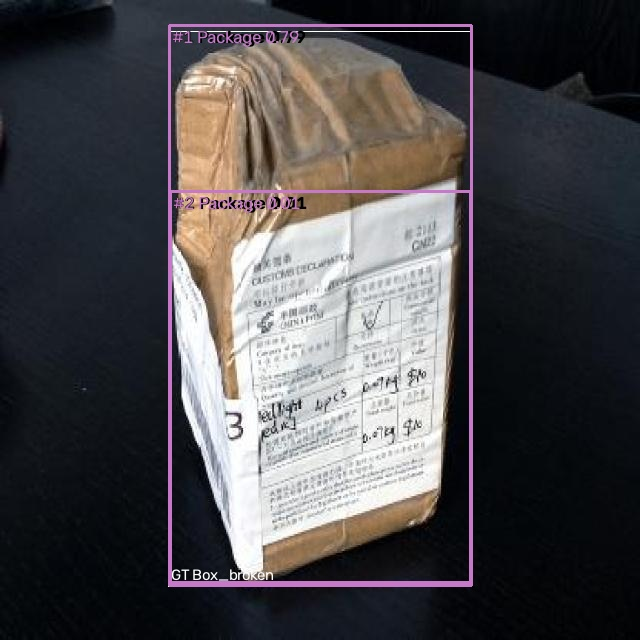
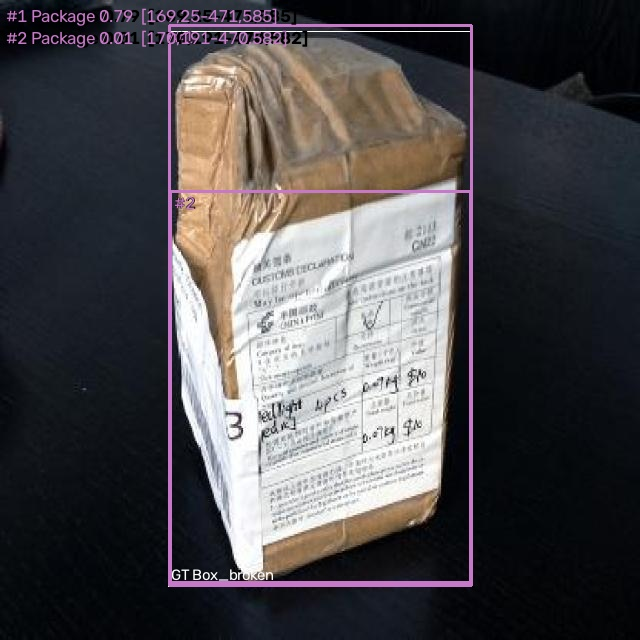
Failure gallery: stack prediction labels so overlapping boxes stay legible; describe misses accurately
Claude-Session: https://claude.ai/code/session_01GVAxXg6fyCTmMUo9zi7ut4

Changed region(s): [[0.0, 0.0, 0.5, 0.0938], [0.2812, 0.2812, 0.5, 0.3438]]

diff --git a/scripts/failures.py b/scripts/failures.py
@@ -47,12 +47,17 @@ def draw(img, preds, gts):
     for name, x0, y0, x1, y1 in gts:
         cv2.rectangle(img, (x0, y0), (x1, y1), (255, 255, 255), 1)
         cv2.putText(img, f"GT {name}", (x0 + 3, y1 - 6), cv2.FONT_HERSHEY_SIMPLEX, 0.5, (255, 255, 255), 1, cv2.LINE_AA)
+    # Labels stack top-left of the image in rank order, so overlapping boxes
+    # (which share corners) never hide each other's text.
     for rank, (name, conf, x0, y0, x1, y1) in enumerate(preds, 1):
         color = COLORS.get(name, (0, 255, 0))
         cv2.rectangle(img, (x0, y0), (x1, y1), color, 2)
-        text = f"#{rank} {name} {conf:.2f}"
-        cv2.putText(img, text, (x0 + 3, max(y0 + 18, 18)), cv2.FONT_HERSHEY_SIMPLEX, 0.6, (0, 0, 0), 3, cv2.LINE_AA)
-        cv2.putText(img, text, (x0 + 3, max(y0 + 18, 18)), cv2.FONT_HERSHEY_SIMPLEX, 0.6, color, 1, cv2.LINE_AA)
+        text = f"#{rank} {name} {conf:.2f}  [{x0},{y0}-{x1},{y1}]"
+        pos = (6, 22 * rank)
+        cv2.putText(img, text, pos, cv2.FONT_HERSHEY_SIMPLEX, 0.6, (0, 0, 0), 3, cv2.LINE_AA)
+        cv2.putText(img, text, pos, cv2.FONT_HERSHEY_SIMPLEX, 0.6, color, 1, cv2.LINE_AA)
+        cv2.putText(img, f"#{rank}", (x0 + 4, y0 + 18), cv2.FONT_HERSHEY_SIMPLEX, 0.6, (0, 0, 0), 3, cv2.LINE_AA)
+        cv2.putText(img, f"#{rank}", (x0 + 4, y0 + 18), cv2.FONT_HERSHEY_SIMPLEX, 0.6, color, 1, cv2.LINE_AA)
     return img
 
 

diff --git a/NOTES.md b/NOTES.md
@@ -267,9 +267,11 @@ Running log of decisions, bugs and numbers. Bullets, newest section last.
   review-band costing adds those.
 - Worst test cases (`scripts/failures.py`, `outputs/failures/`):
   - `5ded88cs-960_jpg...`: GT Box_broken, score 0.0000; model saw Package 0.79.
-    A crushed-corner box read as intact.
+    A tape-wrapped parcel with a customs form and a crumpled top; the damage
+    is subtle and the parcel looks like the Package class.
   - `670055d7-233Open_boo_jpg...`: GT Box_broken, score 0.0015; model saw
-    Box 0.72 and Box 0.50.
+    Box 0.72 and Box 0.50. A heavily taped box with a torn, dented end; the
+    model read the whole box as intact Box.
   - `76c8973b-164Packageeees_jpg...`: GT Package x2, score 0.9338; model saw
     Open_package 0.93. The costliest kind of false alarm: a confident one.
   - `21926138-50Booooox_jpg...`: GT Box, score 0.8984; model saw Box_broken
